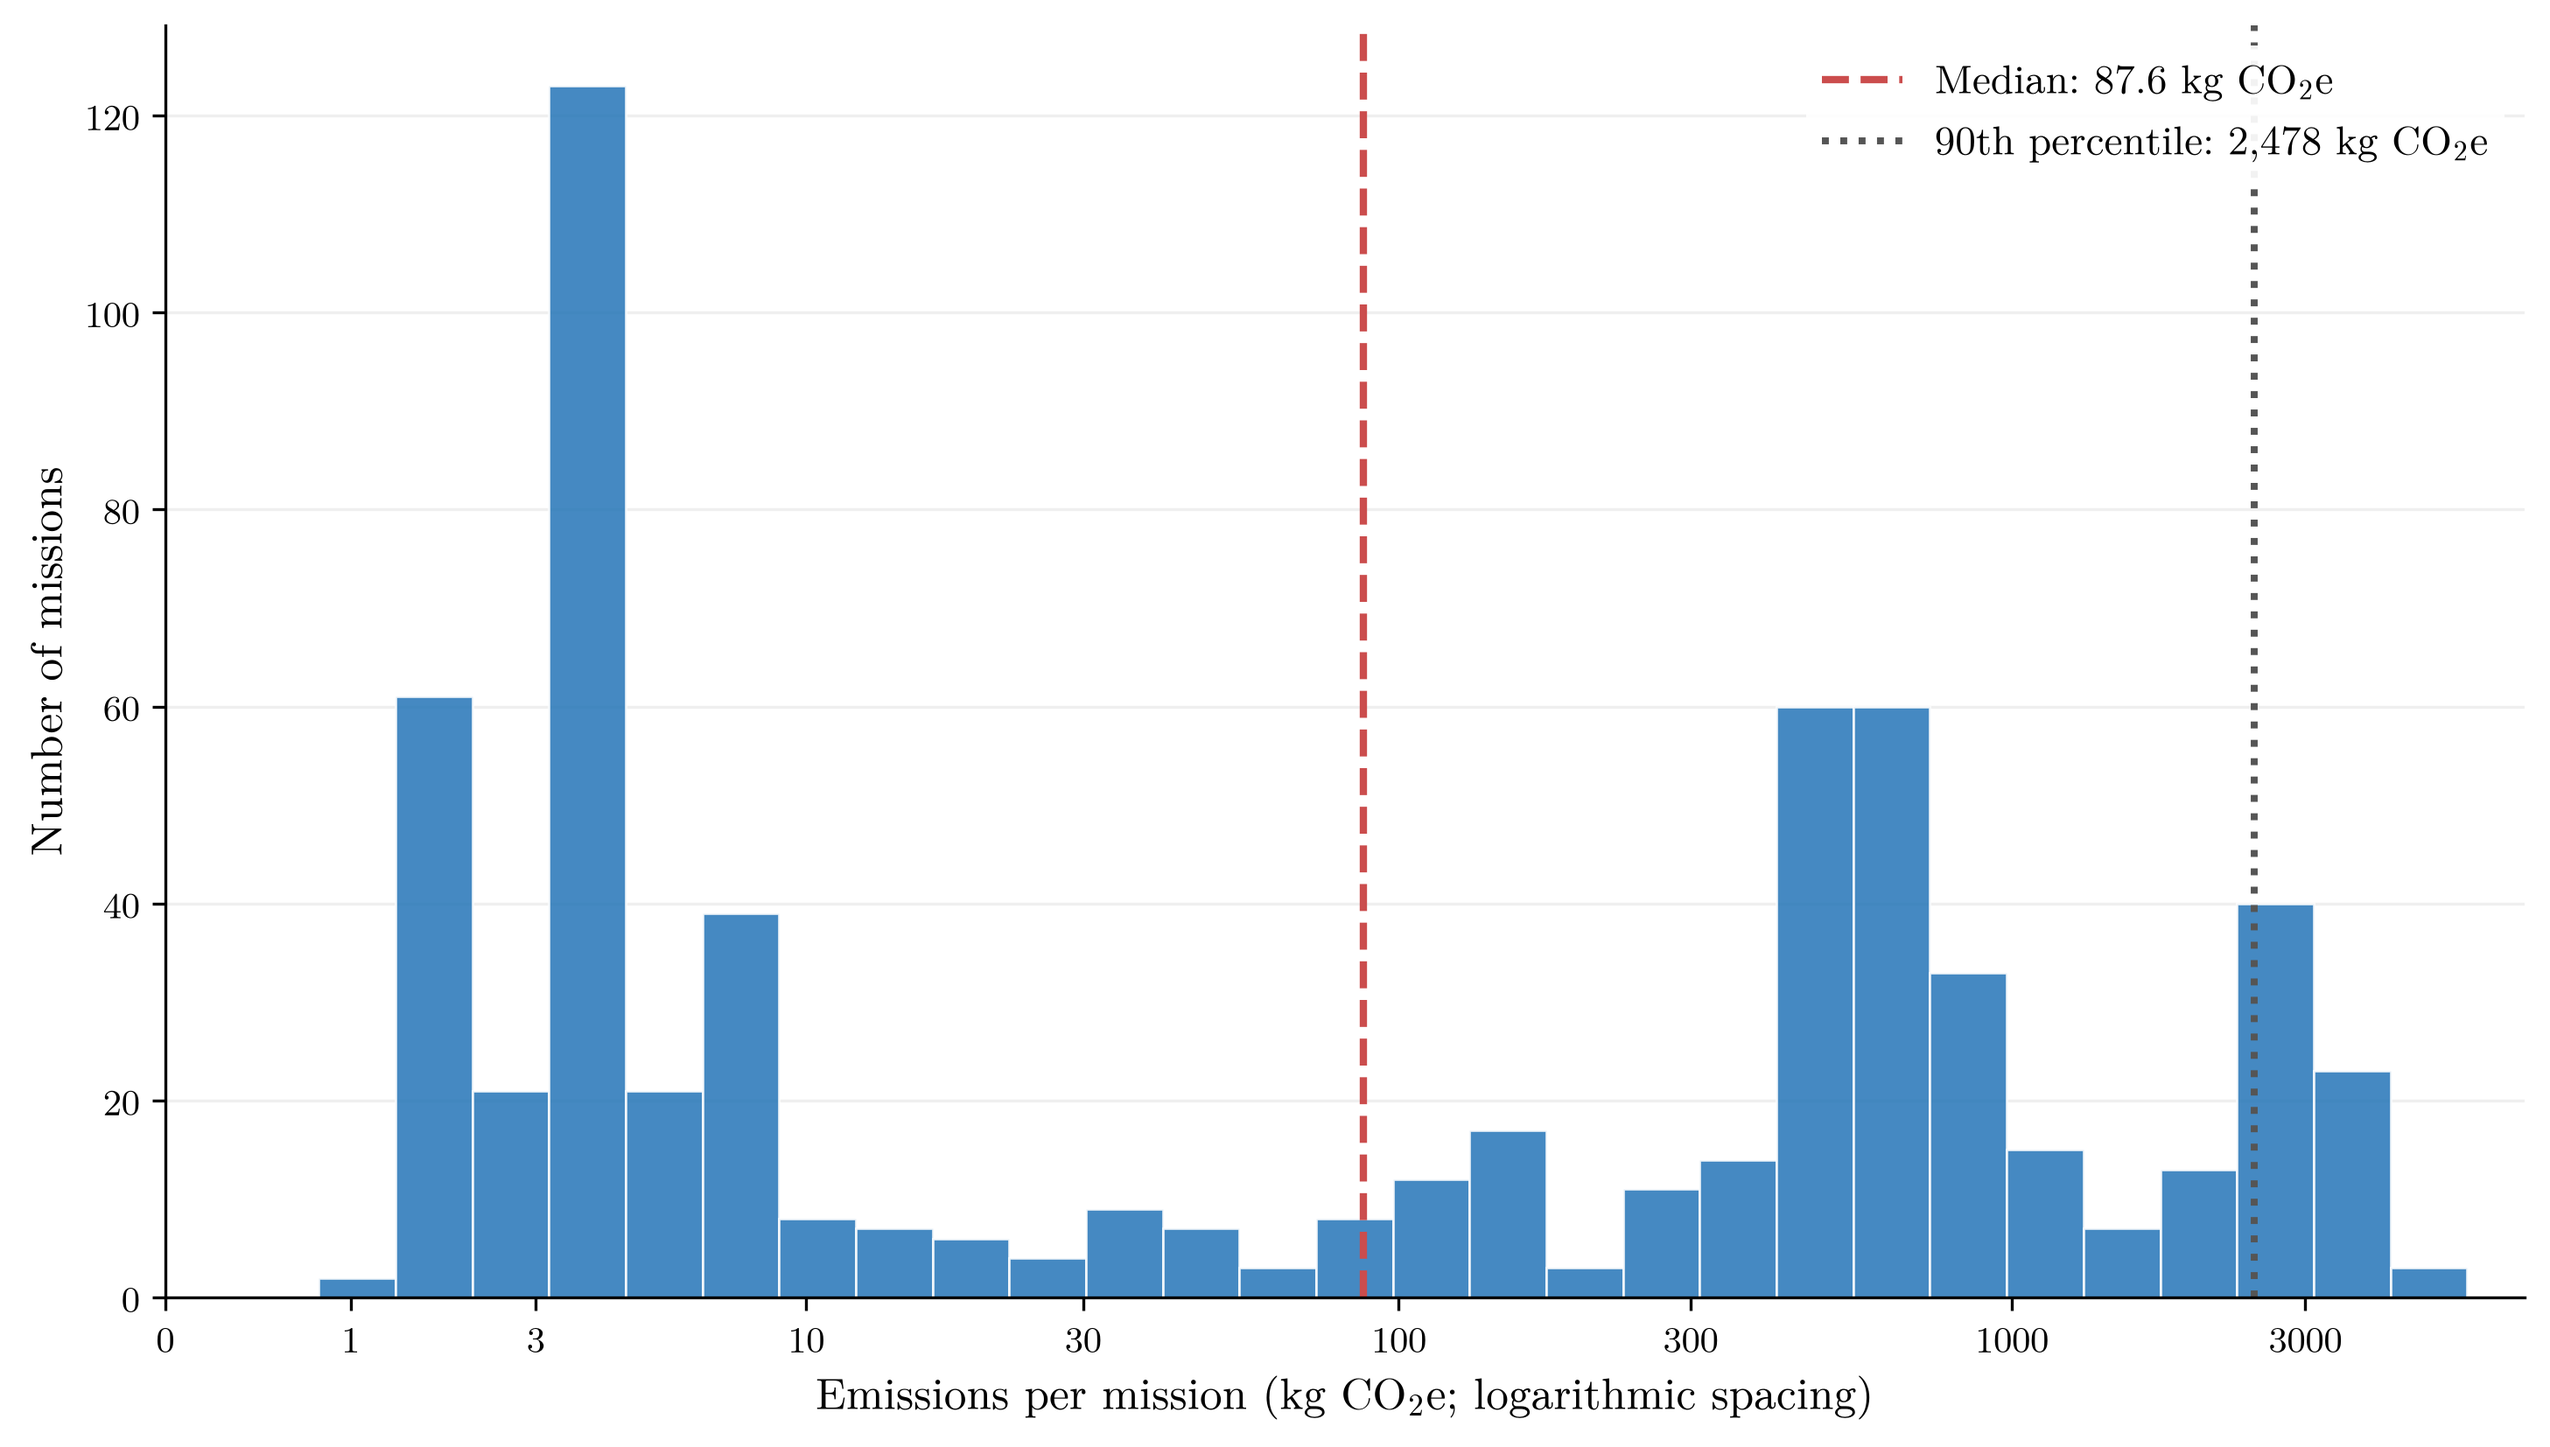
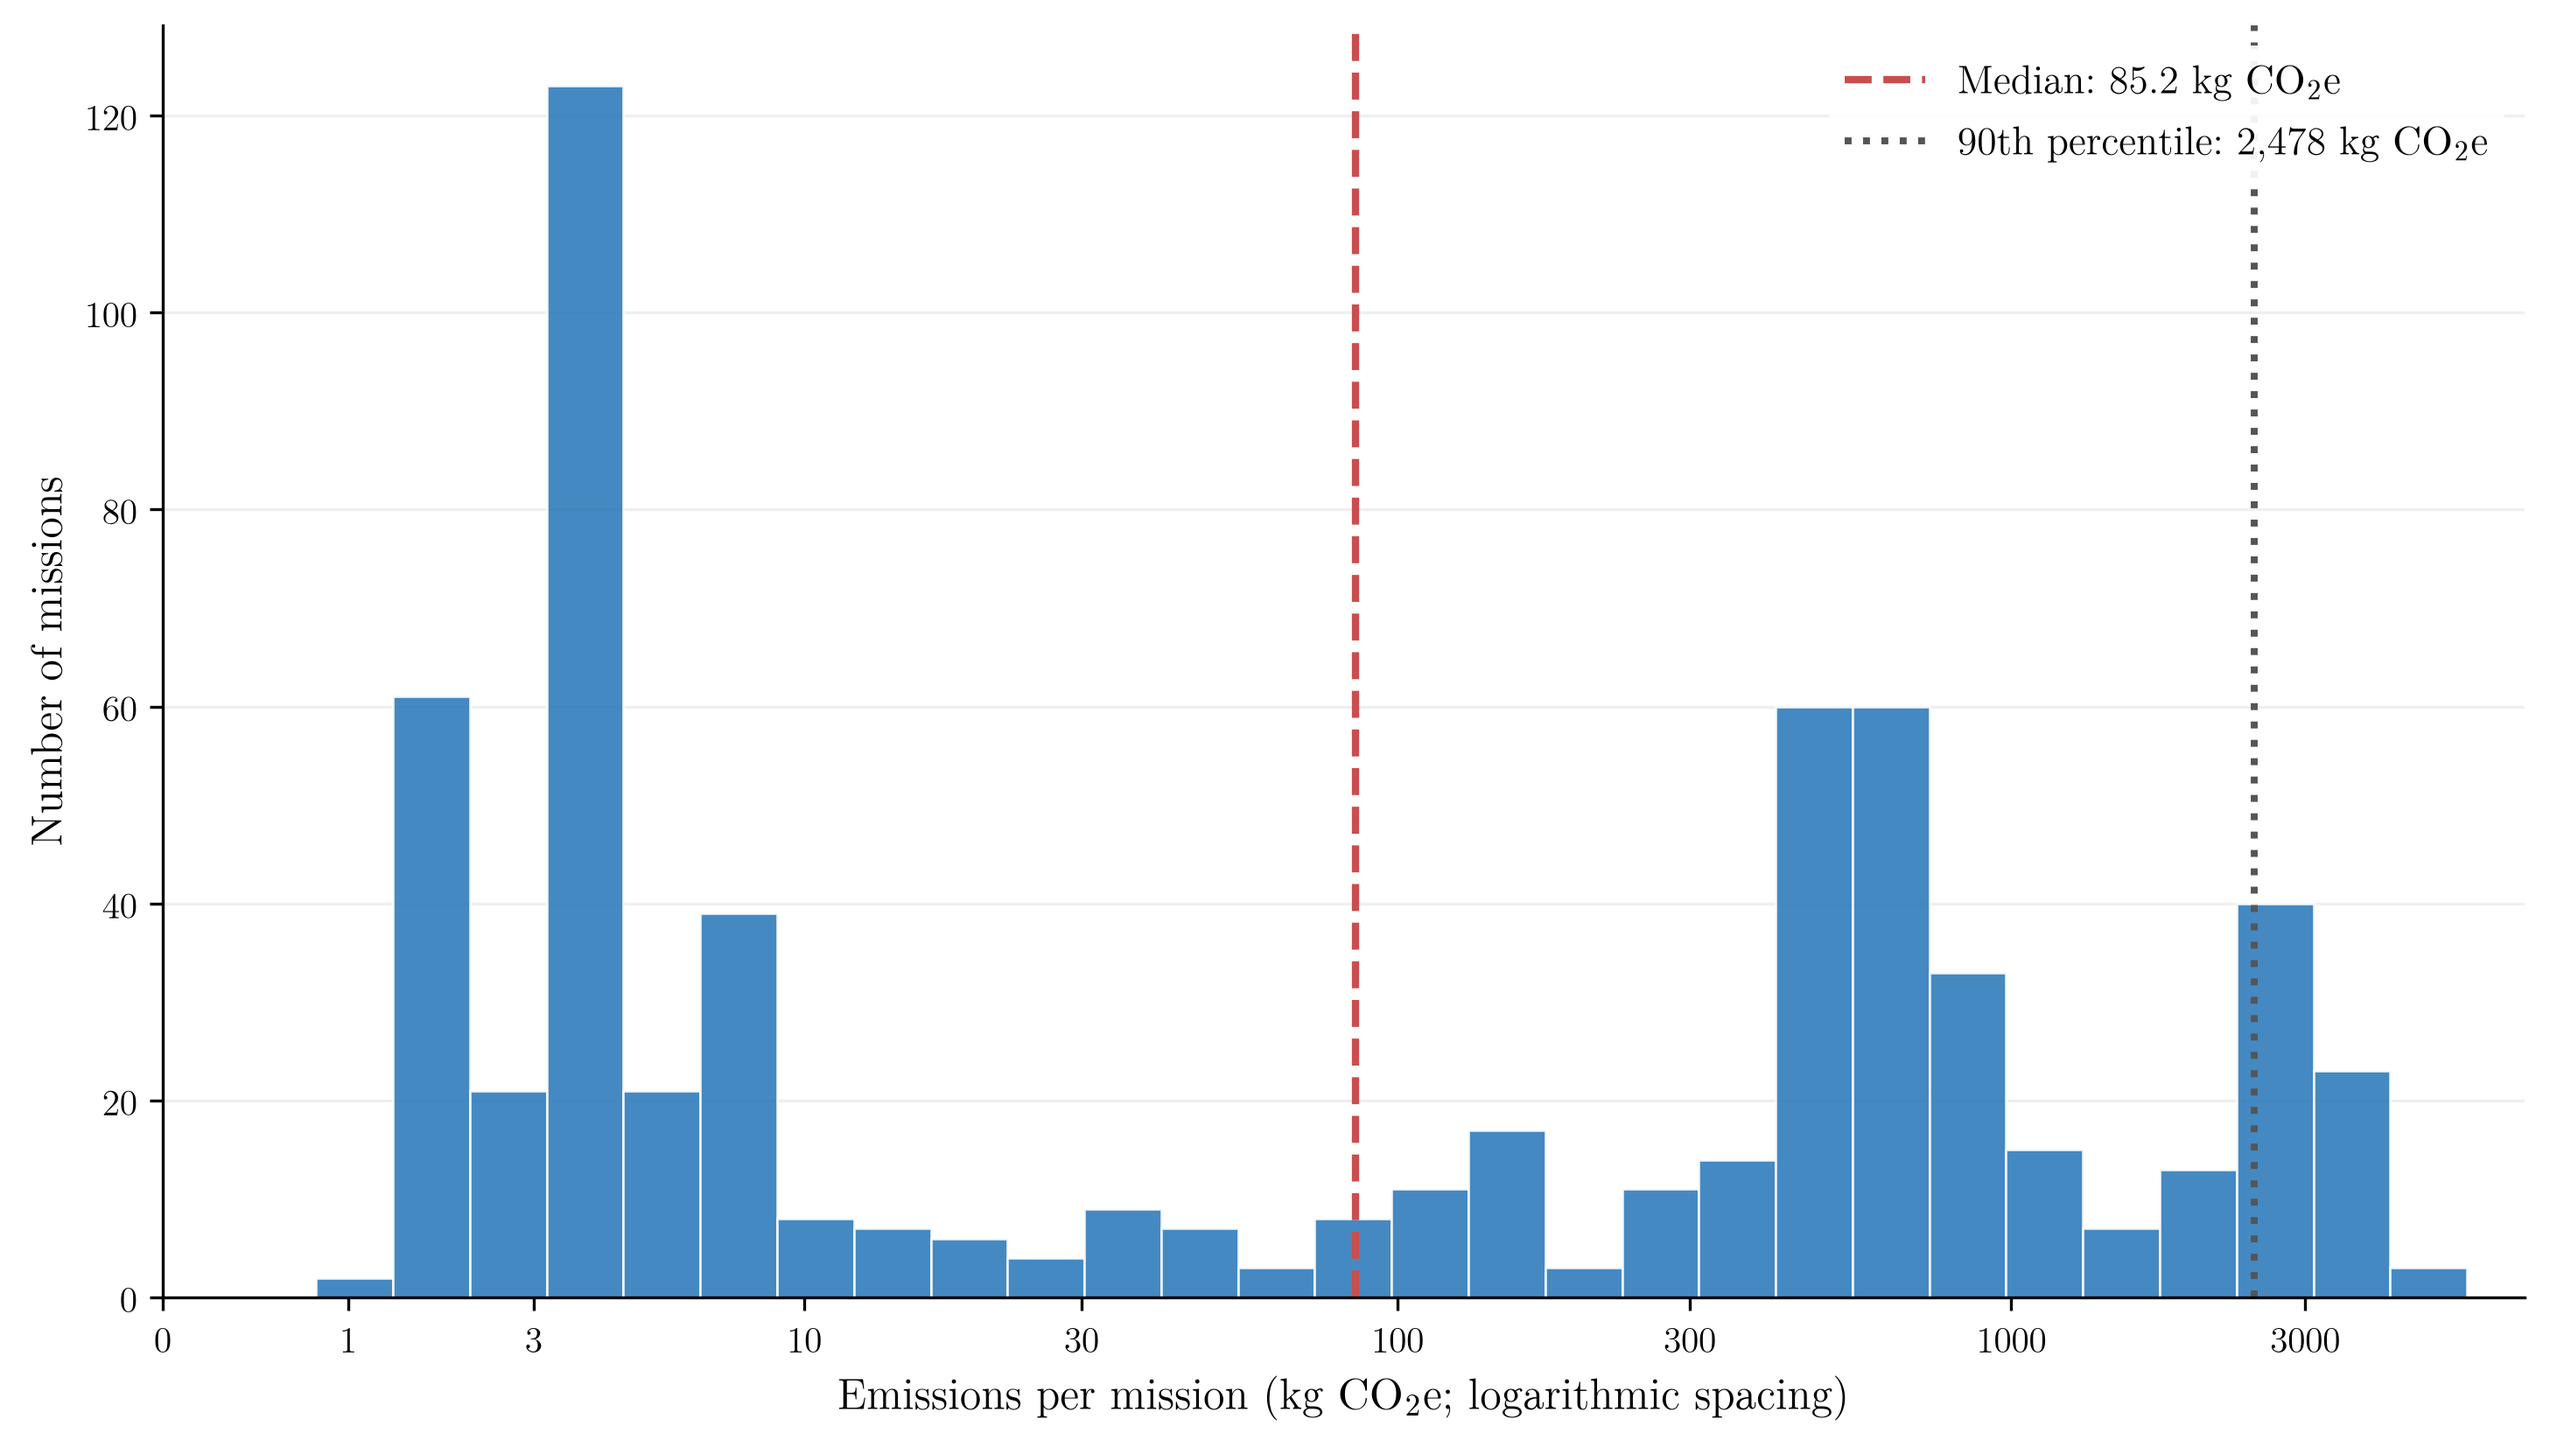
Dataset description updated

diff --git a/artifacts/table_dataset.tex b/artifacts/table_dataset.tex
@@ -2,7 +2,7 @@
 % Requires \usepackage{booktabs} in the document preamble.
 \begin{table}[t]
 \centering
-\caption{\textbf{Characteristics of the observed research travel.} Eligible missions from 2022--2025. The total row counts distinct travelers and research teams across the full period (not sums of annual counts). There were 231 active traveler-years. Emissions refer to complete missions; the median is accompanied by its interquartile range (IQR).}
+\caption{\textbf{Characteristics of the observed research travel.} Eligible missions from 2022--2025. The total row counts distinct travelers and research teams across the full period (not sums of annual counts). There were 230 active traveler-years. Emissions refer to complete missions; the median is accompanied by its interquartile range (IQR).}
 \label{tab:dataset}
 \small
 \setlength{\tabcolsep}{5pt}
@@ -11,11 +11,11 @@
 Year & Missions & Travelers & Teams & \shortstack{Total emissions\\(t~\co)} & \shortstack{Mission emissions\\median (IQR), kg~\co} \\
 \midrule
 2022 & 158 & 60 & 4 & 72.2 & 47.4 (4.0--603.2) \\
-2023 & 165 & 50 & 4 & 108.7 & 158.0 (4.0--760.3) \\
+2023 & 164 & 49 & 4 & 108.6 & 169.7 (4.0--775.1) \\
 2024 & 190 & 68 & 4 & 107.7 & 87.4 (4.0--707.4) \\
 2025 & 117 & 53 & 4 & 77.9 & 35.7 (4.0--726.0) \\
 \midrule
-Total & 630 & 116 & 4 & 366.6 & 87.6 (4.0--690.1) \\
+Total & 629 & 115 & 4 & 366.5 & 85.2 (4.0--690.1) \\
 \bottomrule
 \end{tabular}
 \end{table}

diff --git a/artifacts/table_dataset.md b/artifacts/table_dataset.md
@@ -3,11 +3,11 @@
 | Year | Missions | Travelers | Teams | Emissions (t CO₂e) | Median mission emissions (IQR), kg CO₂e |
 | :--- | ---: | ---: | ---: | ---: | ---: |
 | 2022 | 158 | 60 | 4 | 72.2 | 47.4 (4.0–603.2) |
-| 2023 | 165 | 50 | 4 | 108.7 | 158.0 (4.0–760.3) |
+| 2023 | 164 | 49 | 4 | 108.6 | 169.7 (4.0–775.1) |
 | 2024 | 190 | 68 | 4 | 107.7 | 87.4 (4.0–707.4) |
 | 2025 | 117 | 53 | 4 | 77.9 | 35.7 (4.0–726.0) |
-| Total | 630 | 116 | 4 | 366.6 | 87.6 (4.0–690.1) |
+| Total | 629 | 115 | 4 | 366.5 | 85.2 (4.0–690.1) |
 
-Active traveler-years: **231**.
+Active traveler-years: **230**.
 The total counts unique travelers and research teams across all years; annual traveler and team counts should not be summed.
 Teams are identified using `team`; emissions are complete-mission totals in `emissions_kg_co2e`.
